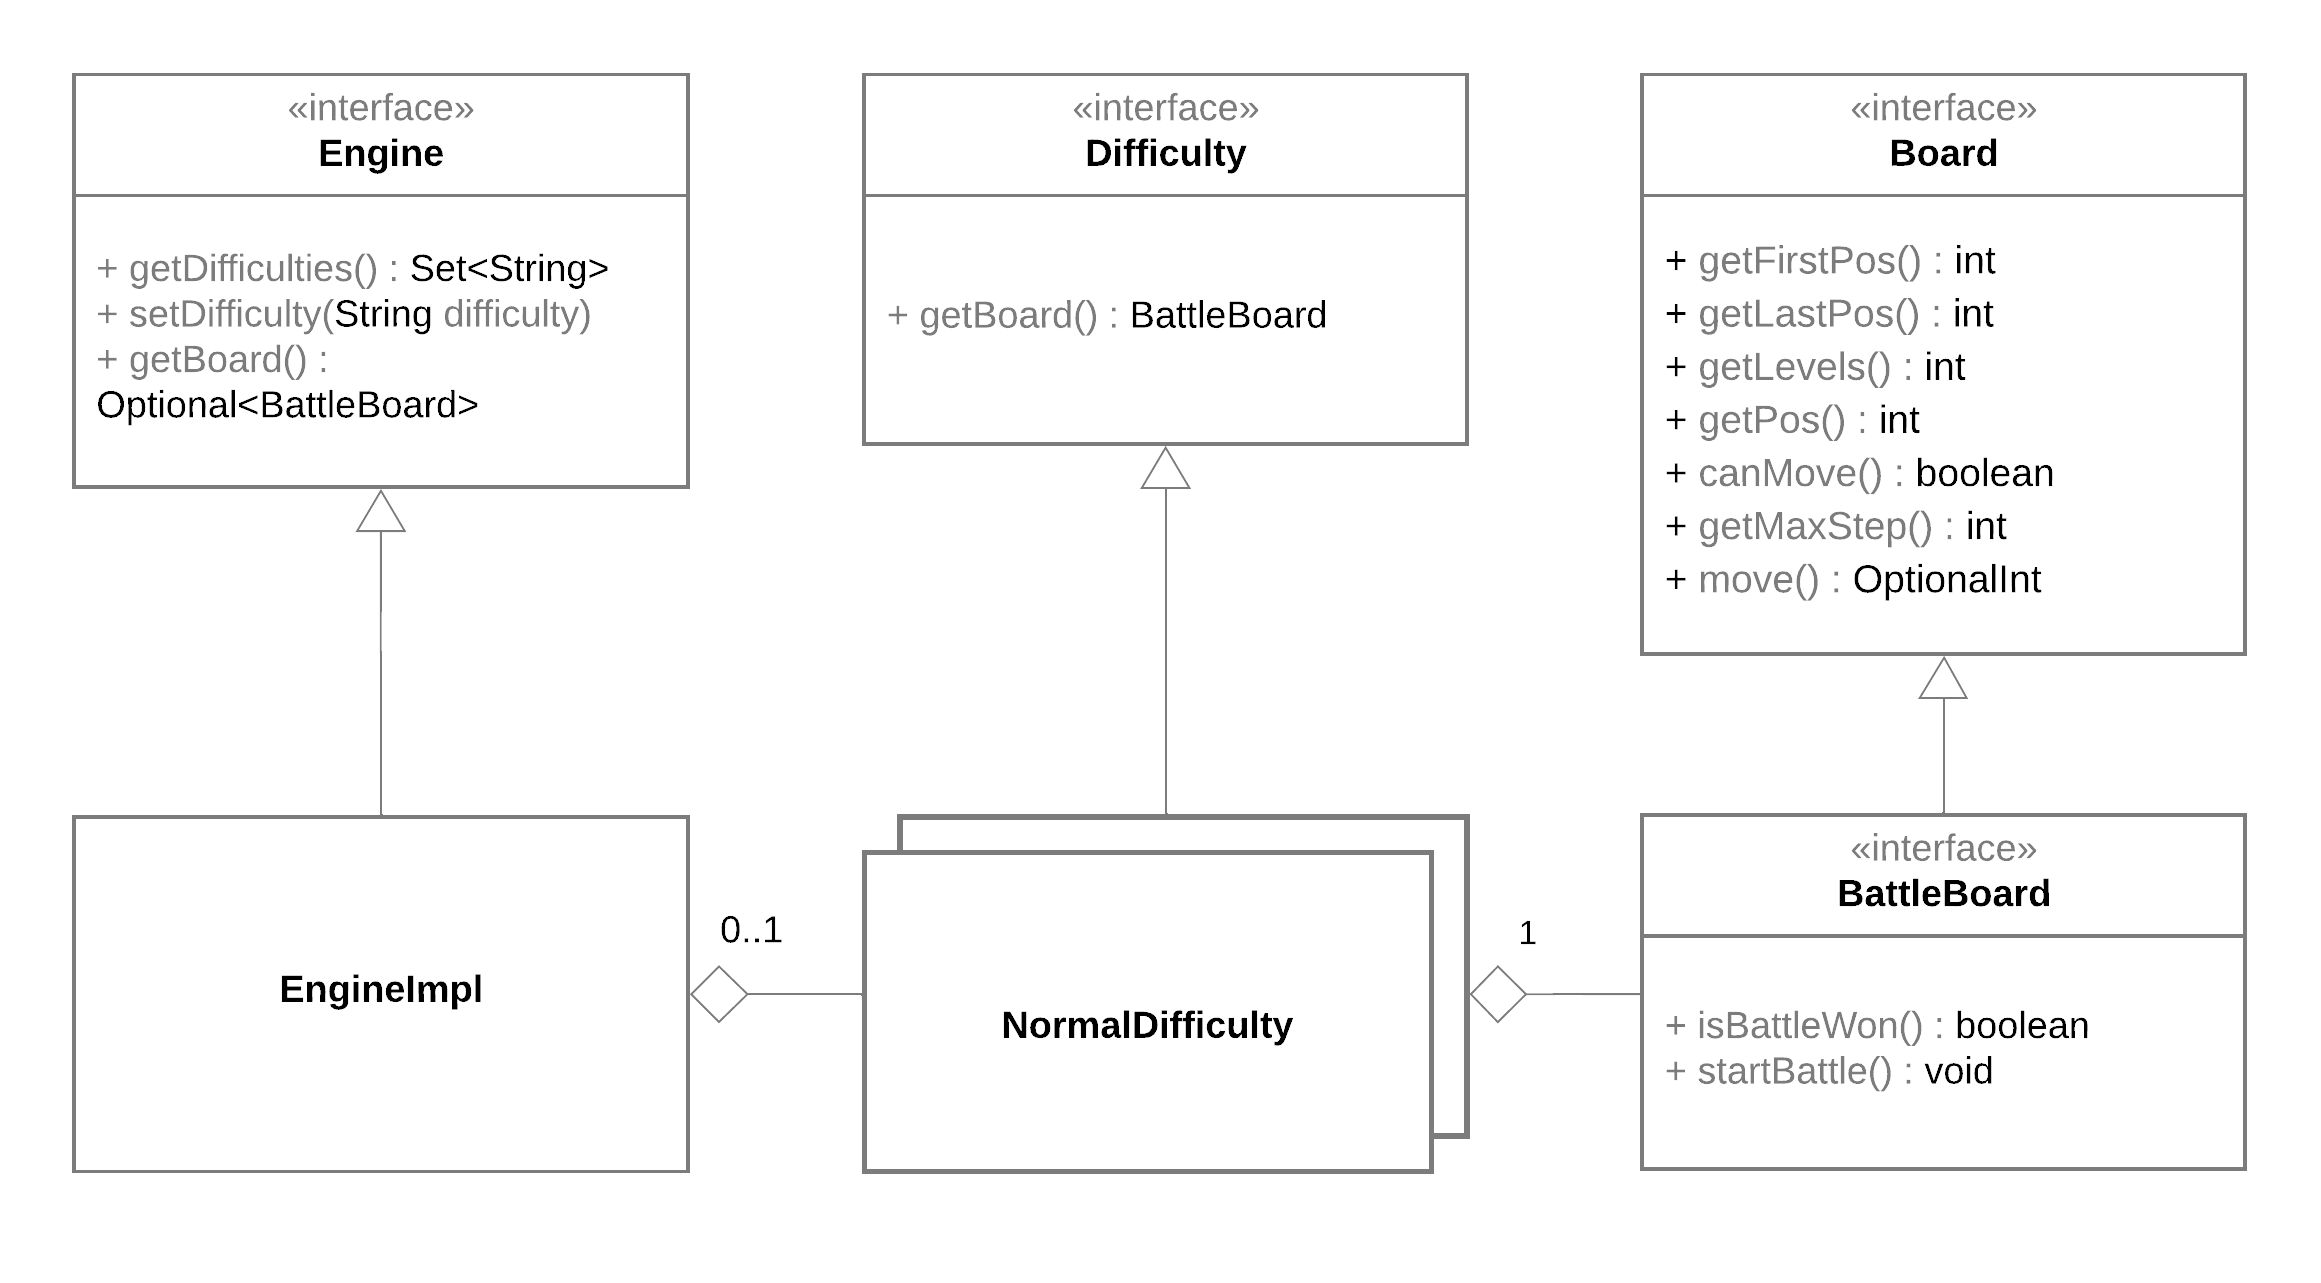
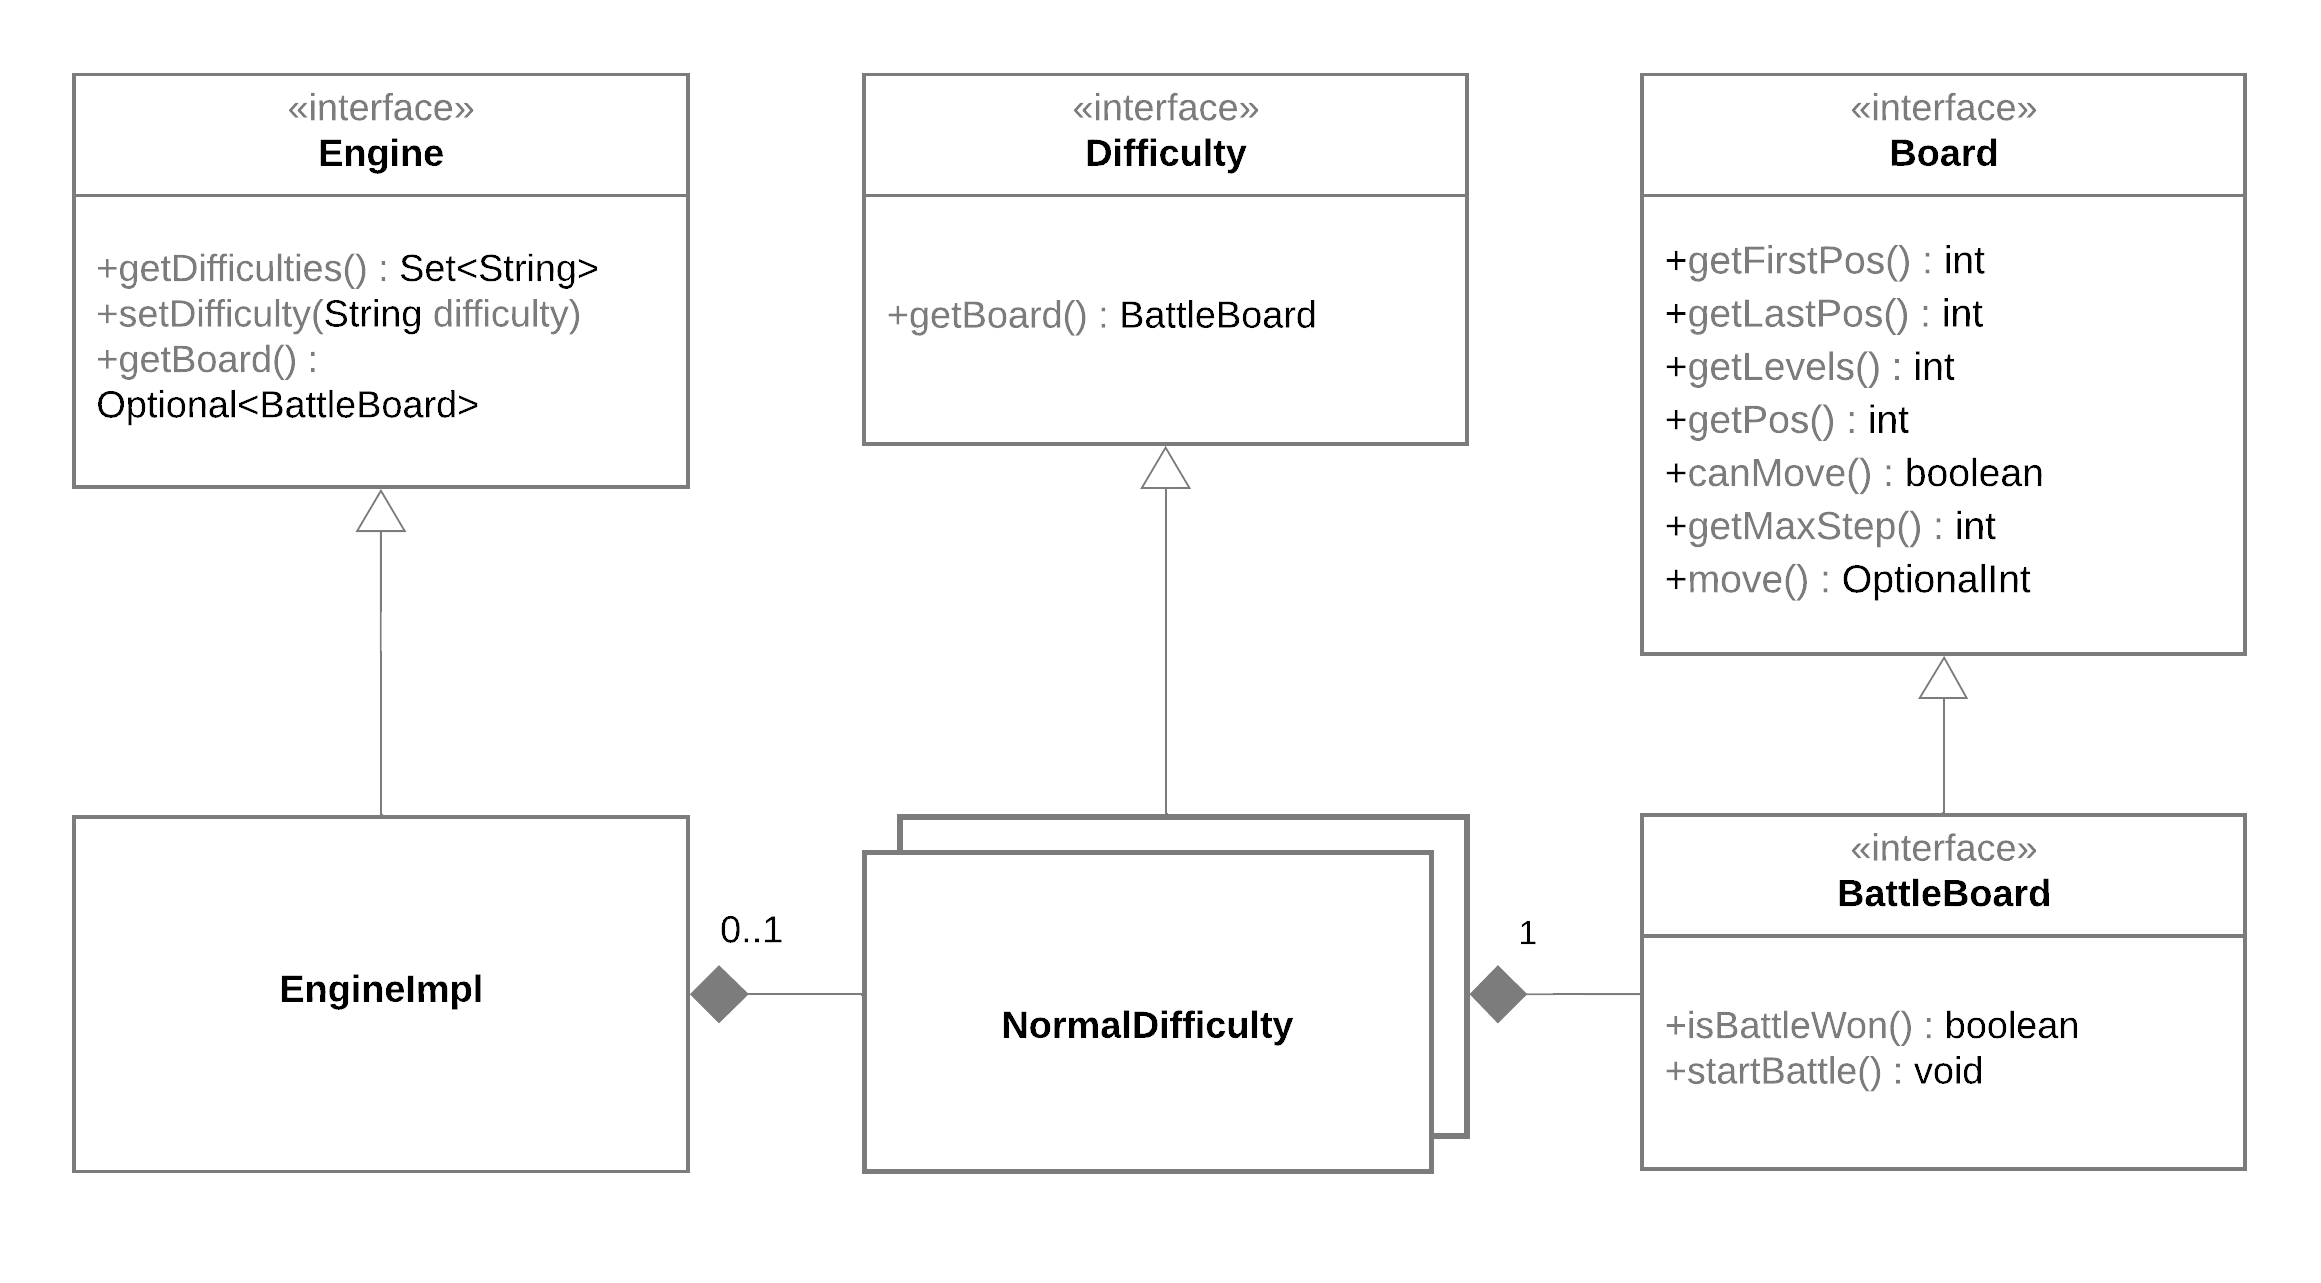
Add Banion Observer and Opponents creation in Design section

diff --git a/darwinsquest.tex b/darwinsquest.tex
@@ -317,7 +317,7 @@
 
     \begin{figure}[ht]
     \centering{}
-    \includegraphics[width=12cm]{mvc}
+    \includegraphics[width=12cm]{MVC_main_classes}
     \caption{UML Model-View-Controller}
     \end{figure}
 
@@ -359,8 +359,10 @@
             Furthermore the \emph{Difficulty} decides also the \emph{OpponentFactory} implementation to pass to the \emph{Board} via \emph{Strategy}.
             The \emph{OpponentFactory} can be considered as \emph{Abstract Factory} because every single implementation of \emph{Difficulty} could pass
             a different implementation of \emph{OpponentFactory} to the relative \emph{BattleBoard}.
+            
+        \pagebreak
 
-        \subsubsection{\emph{Banion}}
+        \subsubsection{\emph{Banion identification}}
 
             \paragraph{Problem}
 
@@ -371,6 +373,34 @@
             After evaluating different options such as not overriding \emph{Banion}'s equals, we decided to use
             \href{https://docs.oracle.com/en/java/javase/17/docs/api/java.base/java/util/UUID.html}{\textit{java.util.UUID}} class to identify every single \emph{Banion} instance.
             In this way it is possible for a player for example to have in the inventory two \emph{Banion}s with the same name twice, because they are different.
+            
+        \pagebreak
+
+        \subsubsection{\emph{Banion modified}}
+
+            \paragraph{Problem}
+
+            In the \emph{View} each \emph{Banion} represented could be modified and should be seen always in most updated state.
+            Furthermore potentially there could be more that one \emph{View} representing the same \emph{Banion}.
+
+            \paragraph{Solution}
+
+            I decided to make the Banion observable for its changed state.
+
+            \begin{figure}[ht]
+            \centering{}
+            \includegraphics[width=\textwidth]{banion_changed}
+            \caption{UML Banion Observer}
+            \end{figure}
+
+            \paragraph{Pattern}
+
+            The \emph{Observer} pattern was adopted to notify changes of state from the specific \emph{Banion}.
+            \emph{BanionImpl} is the subject (the observable object) while \emph{BanionControllerImpl} and then \emph{BattleView} are the Observers.
+            In specific \emph{BanionImpl} is observed from \emph{BanionControllerImpl} while \emph{BanionControllerImpl} is observed from \emph{BattleView}.
+            \emph{BanionControllerImpl} is a "read only" \emph{Banion} wrapper that decouples \emph{Model} from \emph{View}.
+            
+        \pagebreak
 
         \subsubsection{\emph{Element}s, \emph{Move}s and \emph{Banion}s Generation}
 
@@ -412,6 +442,33 @@
             This would consist essentially on storing user \emph{Banion}s data in a folder (ex. \emph{.darwinsquest} in the user folder) and reload them after the login operation.
             For what concerns \emph{User} and \emph{Board} progresses serialization it should be thought in organization, and it would be integrated with the serialization/deserialization of entities.
 
+        \pagebreak
+
+        \subsubsection{\emph{Board Opponents}}
+
+            \paragraph{Problem}
+
+            How to represent \emph{BattleTile}s in the \emph{Board}, and when to create \emph{Opponents} for each level.
+
+            \paragraph{Solution}
+
+            The \emph{BattleBoard} is a specific board that contains the concepts of battle and levels.
+            Each movement in the \emph{Board} brings the player over a new \emph{BattleTile}.
+            The \emph{BattleBoard} was specifically created by the selected \emph{Difficulty} with a particular \emph{OpponentsFactory} implementation.
+            Once the player is to start a battle its specific opponent is created at that moment.
+
+            \begin{figure}[ht]
+            \centering{}
+            \includegraphics[width=\textwidth]{opponents_creation}
+            \caption{UML Board Opponents}
+            \end{figure}
+
+            \paragraph{Pattern}
+
+            The \emph{OpponentsFactory} is passed via\emph{Strategy} at the specific \emph{BattleBoard}.
+            
+        \pagebreak
+
         \subsubsection{\emph{Sprite}s}
 
             \paragraph{Problem}
@@ -424,12 +481,14 @@
             So I decided to put the necessary data in the same \textit{.json} file that contained also the \emph{Banion}s information.
             By doing that I created a \emph{BanionsSpriteFactory} class in the \emph{View} that has to read \emph{Sprite} record (it contains \emph{Banion} .png information).
             Each banion will be associated in the \emph{View} to its \emph{Sprite} by its name (this can be seen in \emph{ChooseBanionMenuView} constructor).
+            
+        \pagebreak
 
         \subsubsection{View}
 
             \paragraph{Problem}
 
-            How to separate concerns in the chosen \emph{JavaFX} library.
+            How to separate concerns in the chosen \emph{JavaFX} library in MVC.
             How to decouple style from showing controls, for example how to specify each \emph{Scene} font in a \emph{DRY} (don't repeat yourself) way.
 
             \paragraph{Solution}
@@ -438,6 +497,8 @@
             I created a Controller for each Container.
             I created a \textit{View} interface that is a generic interface with the aim to create and show different views.
             In this way the \textit{View} interface remains generic and could potentially change without modifying its interfaces.
+            
+        \pagebreak
 
     \subsection*{Sofia Cipollone}
 
